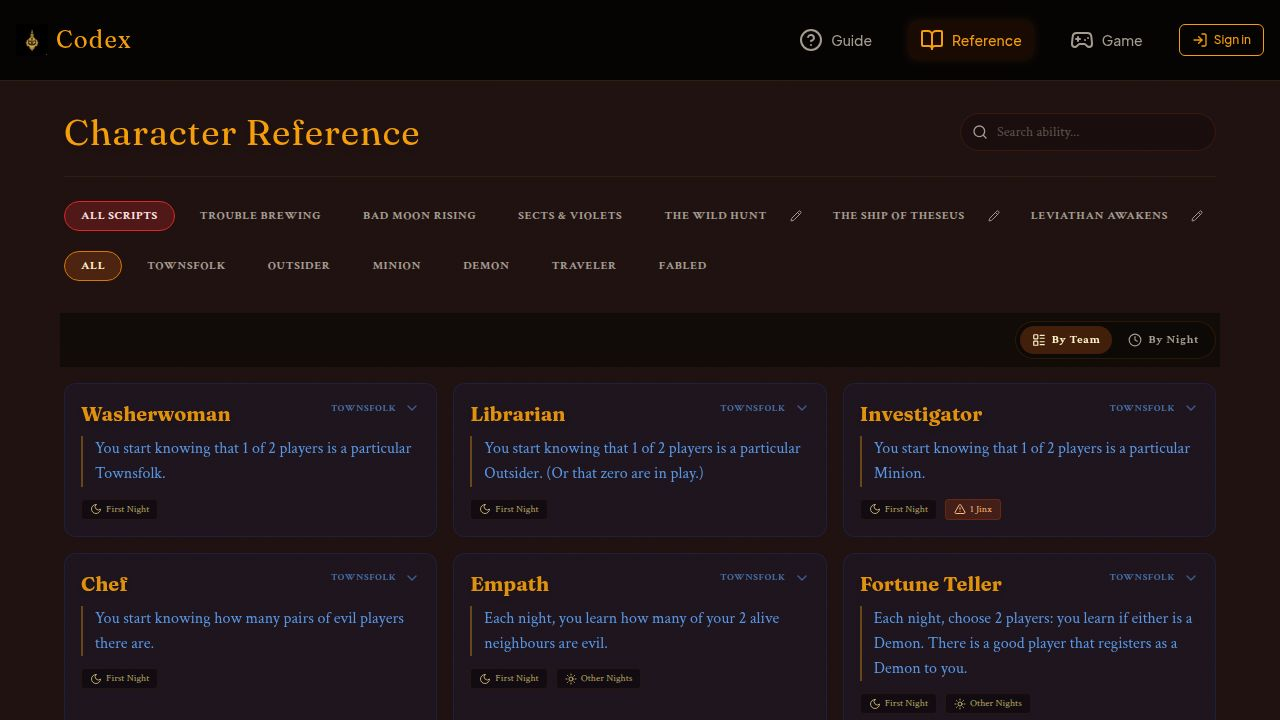
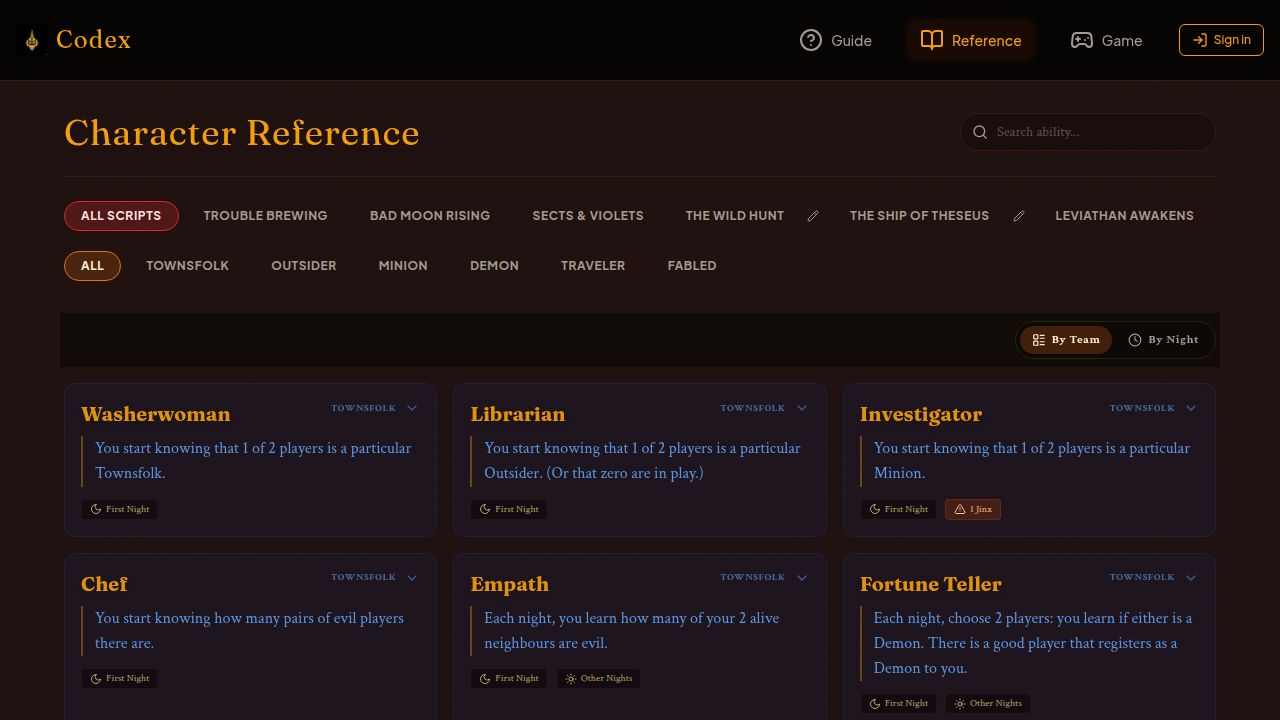
Improve text rendering and button styles across the application
Update pill controls and filter buttons to use `font-sans` for improved typography and standardize styling across components.

Replit-Commit-Author: Agent
Replit-Commit-Session-Id: ae94361c-32a0-4ae3-9177-843ae0e1949e
Replit-Commit-Checkpoint-Type: full_checkpoint
Replit-Commit-Event-Id: 3e2e9ede-2350-4b0f-af09-fb400c0bb4a1
Replit-Commit-Screenshot-Url: https://storage.googleapis.com/screenshot-production-us-central1/4896d3b3-4a48-4017-84fa-ecfebe6b640b/ae94361c-32a0-4ae3-9177-843ae0e1949e/S5VPj13
Replit-Helium-Checkpoint-Created: true

diff --git a/client/src/pages/Reference.tsx b/client/src/pages/Reference.tsx
@@ -85,7 +85,7 @@ export default function Reference() {
                 <button
                   onClick={() => setScriptFilter(script.id)}
                   className={cn(
-                    "px-4 py-1.5 text-xs font-bold uppercase tracking-wider transition-all border whitespace-nowrap",
+                    "px-4 py-1.5 text-xs font-sans font-bold uppercase tracking-wider transition-all border whitespace-nowrap",
                     script.isCommunity ? "rounded-l-full" : "rounded-full",
                     scriptFilter === script.id 
                       ? "bg-red-900/50 text-red-100 border-red-600" 
@@ -127,7 +127,7 @@ export default function Reference() {
                     <button
                       onClick={() => setScriptFilter(`custom:${script.id}`)}
                       className={cn(
-                        "px-3 py-1.5 rounded-l-full text-xs font-bold tracking-wider transition-all border whitespace-nowrap",
+                        "px-3 py-1.5 rounded-l-full text-xs font-sans font-bold tracking-wider transition-all border whitespace-nowrap",
                         scriptFilter === `custom:${script.id}`
                           ? "bg-purple-900/50 text-purple-100 border-purple-600"
                           : "bg-transparent text-muted-foreground border-transparent hover:bg-white/5"
@@ -170,7 +170,7 @@ export default function Reference() {
                 setEditingScript(null);
                 setShowScriptBuilder(true);
               }}
-              className="px-3 py-1.5 rounded-full text-xs font-bold tracking-wider transition-all border border-dashed border-purple-700/50 whitespace-nowrap flex items-center gap-1 text-purple-400 hover:bg-purple-900/20"
+              className="px-3 py-1.5 rounded-full text-xs font-sans font-bold tracking-wider transition-all border border-dashed border-purple-700/50 whitespace-nowrap flex items-center gap-1 text-purple-400 hover:bg-purple-900/20"
               data-testid="button-create-custom-script"
             >
               <Plus className="w-3 h-3" />
@@ -184,7 +184,7 @@ export default function Reference() {
                 key={f}
                 onClick={() => setTeamFilter(f)}
                 className={cn(
-                  "px-4 py-1.5 rounded-full text-xs font-bold uppercase tracking-wider transition-all border",
+                  "px-4 py-1.5 rounded-full text-xs font-sans font-bold uppercase tracking-wider transition-all border",
                   teamFilter === f 
                     ? "bg-amber-900/50 text-amber-100 border-amber-600" 
                     : "bg-transparent text-muted-foreground border-transparent hover:bg-white/5"

diff --git a/client/src/components/character/ScriptView.tsx b/client/src/components/character/ScriptView.tsx
@@ -94,7 +94,7 @@ export function ScriptView({
                 key={value}
                 onClick={() => setNightView(value)}
                 className={cn(
-                  "flex items-center gap-1.5 px-3 py-1.5 rounded-full text-xs font-bold tracking-wider transition-all whitespace-nowrap",
+                  "flex items-center gap-1.5 px-3 py-1.5 rounded-full text-xs font-sans font-bold tracking-wider transition-all whitespace-nowrap",
                   nightView === value
                     ? "bg-amber-900/50 text-amber-100"
                     : "bg-transparent text-muted-foreground hover:bg-white/5",
